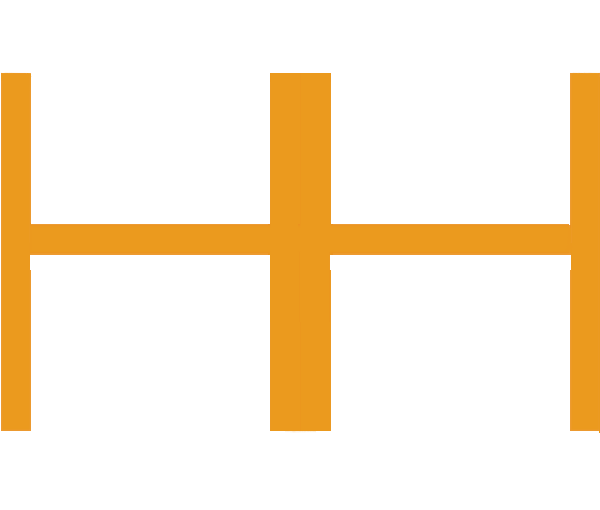
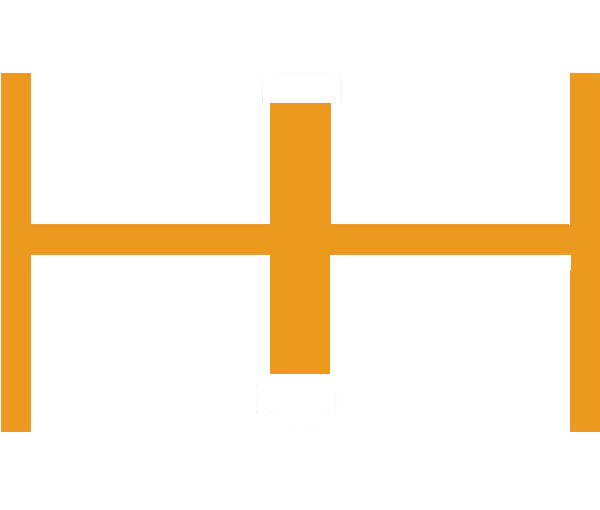
fix bug head in first element body

Changed region(s): [[0.45, 0.7353, 0.57, 0.8529], [0.45, 0.1176, 0.57, 0.2059]]

diff --git a/src/classes/snake.py b/src/classes/snake.py
@@ -1,5 +1,3 @@
-import time
-
 import pygame
 
 from src.settings import *
@@ -7,7 +5,6 @@ from src.classes.sound import Sound
 from src.classes.fall_effect import FallEffect
 
 effect = FallEffect()
-
 
 class Snake(pygame.sprite.Sprite, Sound):
     statistics_dict = {}
@@ -35,6 +32,7 @@ class Snake(pygame.sprite.Sprite, Sound):
     is_back_to_game_state = False
     start_x_pos = CELL_NUMBER // 2 - 1
     start_y_pos = CELL_NUMBER // 2 + 3
+    directions_archive = []
 
     def __init__(self, all_spite_groups_dict):
         pygame.sprite.Sprite.__init__(self)
@@ -47,7 +45,7 @@ class Snake(pygame.sprite.Sprite, Sound):
         self.direction_name = 'up'
         self.body = scale_image('./src/assets/images/snake/body_cross.png', BLOCK_SIZE, BLOCK_SIZE)
         self.queue = scale_image('./src/assets/images/snake/queue_up.png', BLOCK_SIZE, BLOCK_SIZE)
-        self.body_list = [vec(self.start_x_pos, self.start_y_pos) for _ in range(5)]
+        self.body_list = [vec(self.start_x_pos, self.start_y_pos + i) for i in range(5)]
 
     def check_direction(self):
         for event in pygame.event.get():
@@ -72,6 +70,9 @@ class Snake(pygame.sprite.Sprite, Sound):
                     if event.key == pygame.K_p:
                         Sound.btn_click(self)
                         self.is_pause = True
+                    # get and save last two directions
+                    self.directions_archive.append(self.direction)
+                    self.directions_archive = self.directions_archive[-2:]
 
     def transform(self):
         self.image = pygame.image.load(f'./src/assets/images/snake/head_{self.direction_name}_s.png')
@@ -103,22 +104,40 @@ class Snake(pygame.sprite.Sprite, Sound):
                 SCREEN.blit(self.queue, block_rec)
 
     def move(self):  # move snake
-        if self.is_increase_body_snake:
-            self.counter_increase_body_parts -= 1
-            if self.counter_increase_body_parts > -1:
-                copy = self.body_list
-                copy.insert(0, copy[0] + self.direction)
-                self.body_list = copy
+        head = [self.rect.x // BLOCK_SIZE , self.rect.y // BLOCK_SIZE]
+        if head + self.direction == self.body_list[1]: # FIX BUG head in first block body
+            for direction in self.directions_archive:
+                self.direction = direction
+                if self.is_increase_body_snake:
+                    self.counter_increase_body_parts -= 1
+                    if self.counter_increase_body_parts > -1:
+                        copy = self.body_list
+                        copy.insert(0, copy[0] + self.direction)
+                        self.body_list = copy
+                    else:
+                        self.counter_increase_body_parts = 6
+                        self.is_increase_body_snake = False
+                else:
+                    copy_body_list = self.body_list[:-1]
+                    copy_body_list.insert(0, self.body_list[0] + self.direction)
+                    self.body_list = copy_body_list
+        else: # ----------------------------------------work without BUG
+            if self.is_increase_body_snake:
+                self.counter_increase_body_parts -= 1
+                if self.counter_increase_body_parts > -1:
+                    copy = self.body_list
+                    copy.insert(0, copy[0] + self.direction)
+                    self.body_list = copy
+                else:
+                    self.counter_increase_body_parts = 6
+                    self.is_increase_body_snake = False
             else:
-                self.counter_increase_body_parts = 6
-                self.is_increase_body_snake = False
-        else:
-            copy_body_list = self.body_list[:-1]
-            copy_body_list.insert(0, self.body_list[0] + self.direction)
-            self.body_list = copy_body_list
+                copy_body_list = self.body_list[:-1]
+                copy_body_list.insert(0, self.body_list[0] + self.direction)
+                self.body_list = copy_body_list
 
     # ----------- not used
-    def increase_body_snake(self):  # add element to body snake
+    def increase_body_snake(self):  # add just one element to body snake
         # add only one element
         # copy = self.body_list
         # copy.insert(1, copy[1])
@@ -299,15 +318,16 @@ class Snake(pygame.sprite.Sprite, Sound):
 
     def update(self):
         self.check_direction()
-        self.move()
         self.transform()
+        self.move()
         self.draw()
-        self.check_snake_and_fruit_collide()
         self.check_over_time_eat_fruit()
-        self.check_level_complete()
+        self.check_snake_and_fruit_collide()
         self.check_snake_and_figure_collide()
-        self.check_crash_in_wall()
         self.check_crash_in_body()
+        self.check_crash_in_wall()
+        self.check_level_complete()
+
 
 
 

diff --git a/main.py b/main.py
@@ -130,15 +130,15 @@ class GameState(Sound):
         text_creator('By Abaddon', 'orange', 10, S_H - 10, 15, None, './src/fonts/mario.ttf')
         text_creator('Copyright ©2023', 'teal', S_W - 150, S_H - 10, 15, None, './src/fonts/mario.ttf')
 
-        if key_pressed(pygame.K_SPACE):
+        if check_key_pressed(pygame.K_SPACE):
             Sound.btn_click(self)
             self.start_game_counter = 3
             Sound.stop_all_sounds()
             self.state = 'get_ready'
-        if key_pressed(pygame.K_c):
+        if check_key_pressed(pygame.K_c):
             Sound.btn_click(self)
             self.state = 'credits'
-        if key_pressed(pygame.K_m):
+        if check_key_pressed(pygame.K_m):
             Sound.btn_click(self)
             self.state = 'menu'
         exit_game()
@@ -146,7 +146,7 @@ class GameState(Sound):
     def menu(self):
         background_image('./src/assets/images/backgrounds/bg_menu.png')
         text_creator('Press RETURN to back...', 'cornsilk', S_W - 200, S_H - 10, 24)
-        if key_pressed(pygame.K_RETURN):
+        if check_key_pressed(pygame.K_RETURN):
             self.state = 'intro'
         exit_game()
 
@@ -177,7 +177,7 @@ class GameState(Sound):
 
         text_creator('Press RETURN to back...', 'cornsilk', S_W - 200, S_H - 10, 24)
 
-        if key_pressed(pygame.K_RETURN):
+        if check_key_pressed(pygame.K_RETURN):
             Sound.btn_click(self)
             self.state = 'intro'
         exit_game()
@@ -299,7 +299,6 @@ class GameState(Sound):
 
 #  ================================ create new GameState
 game_state = GameState()
-
 
 # SCREEN_UPDATE = pygame.USEREVENT
 # pygame.time.set_timer(SCREEN_UPDATE, 150)

diff --git a/src/classes/table.py b/src/classes/table.py
@@ -7,7 +7,7 @@ class Table:
         self.image = pygame.image.load('./src/assets/images/frames/full_frame_2.png')
         self.rect = self.image.get_bounding_rect(min_alpha=1)
         self.rect.center = (2, S_H - FRAME_SIZE + 3)
-        self.height_score = 30000
+        self.height_score = 150000
 
     def draw_display_frame(self):
         table_rect = pygame.Rect(0, 0, S_W, S_H)
